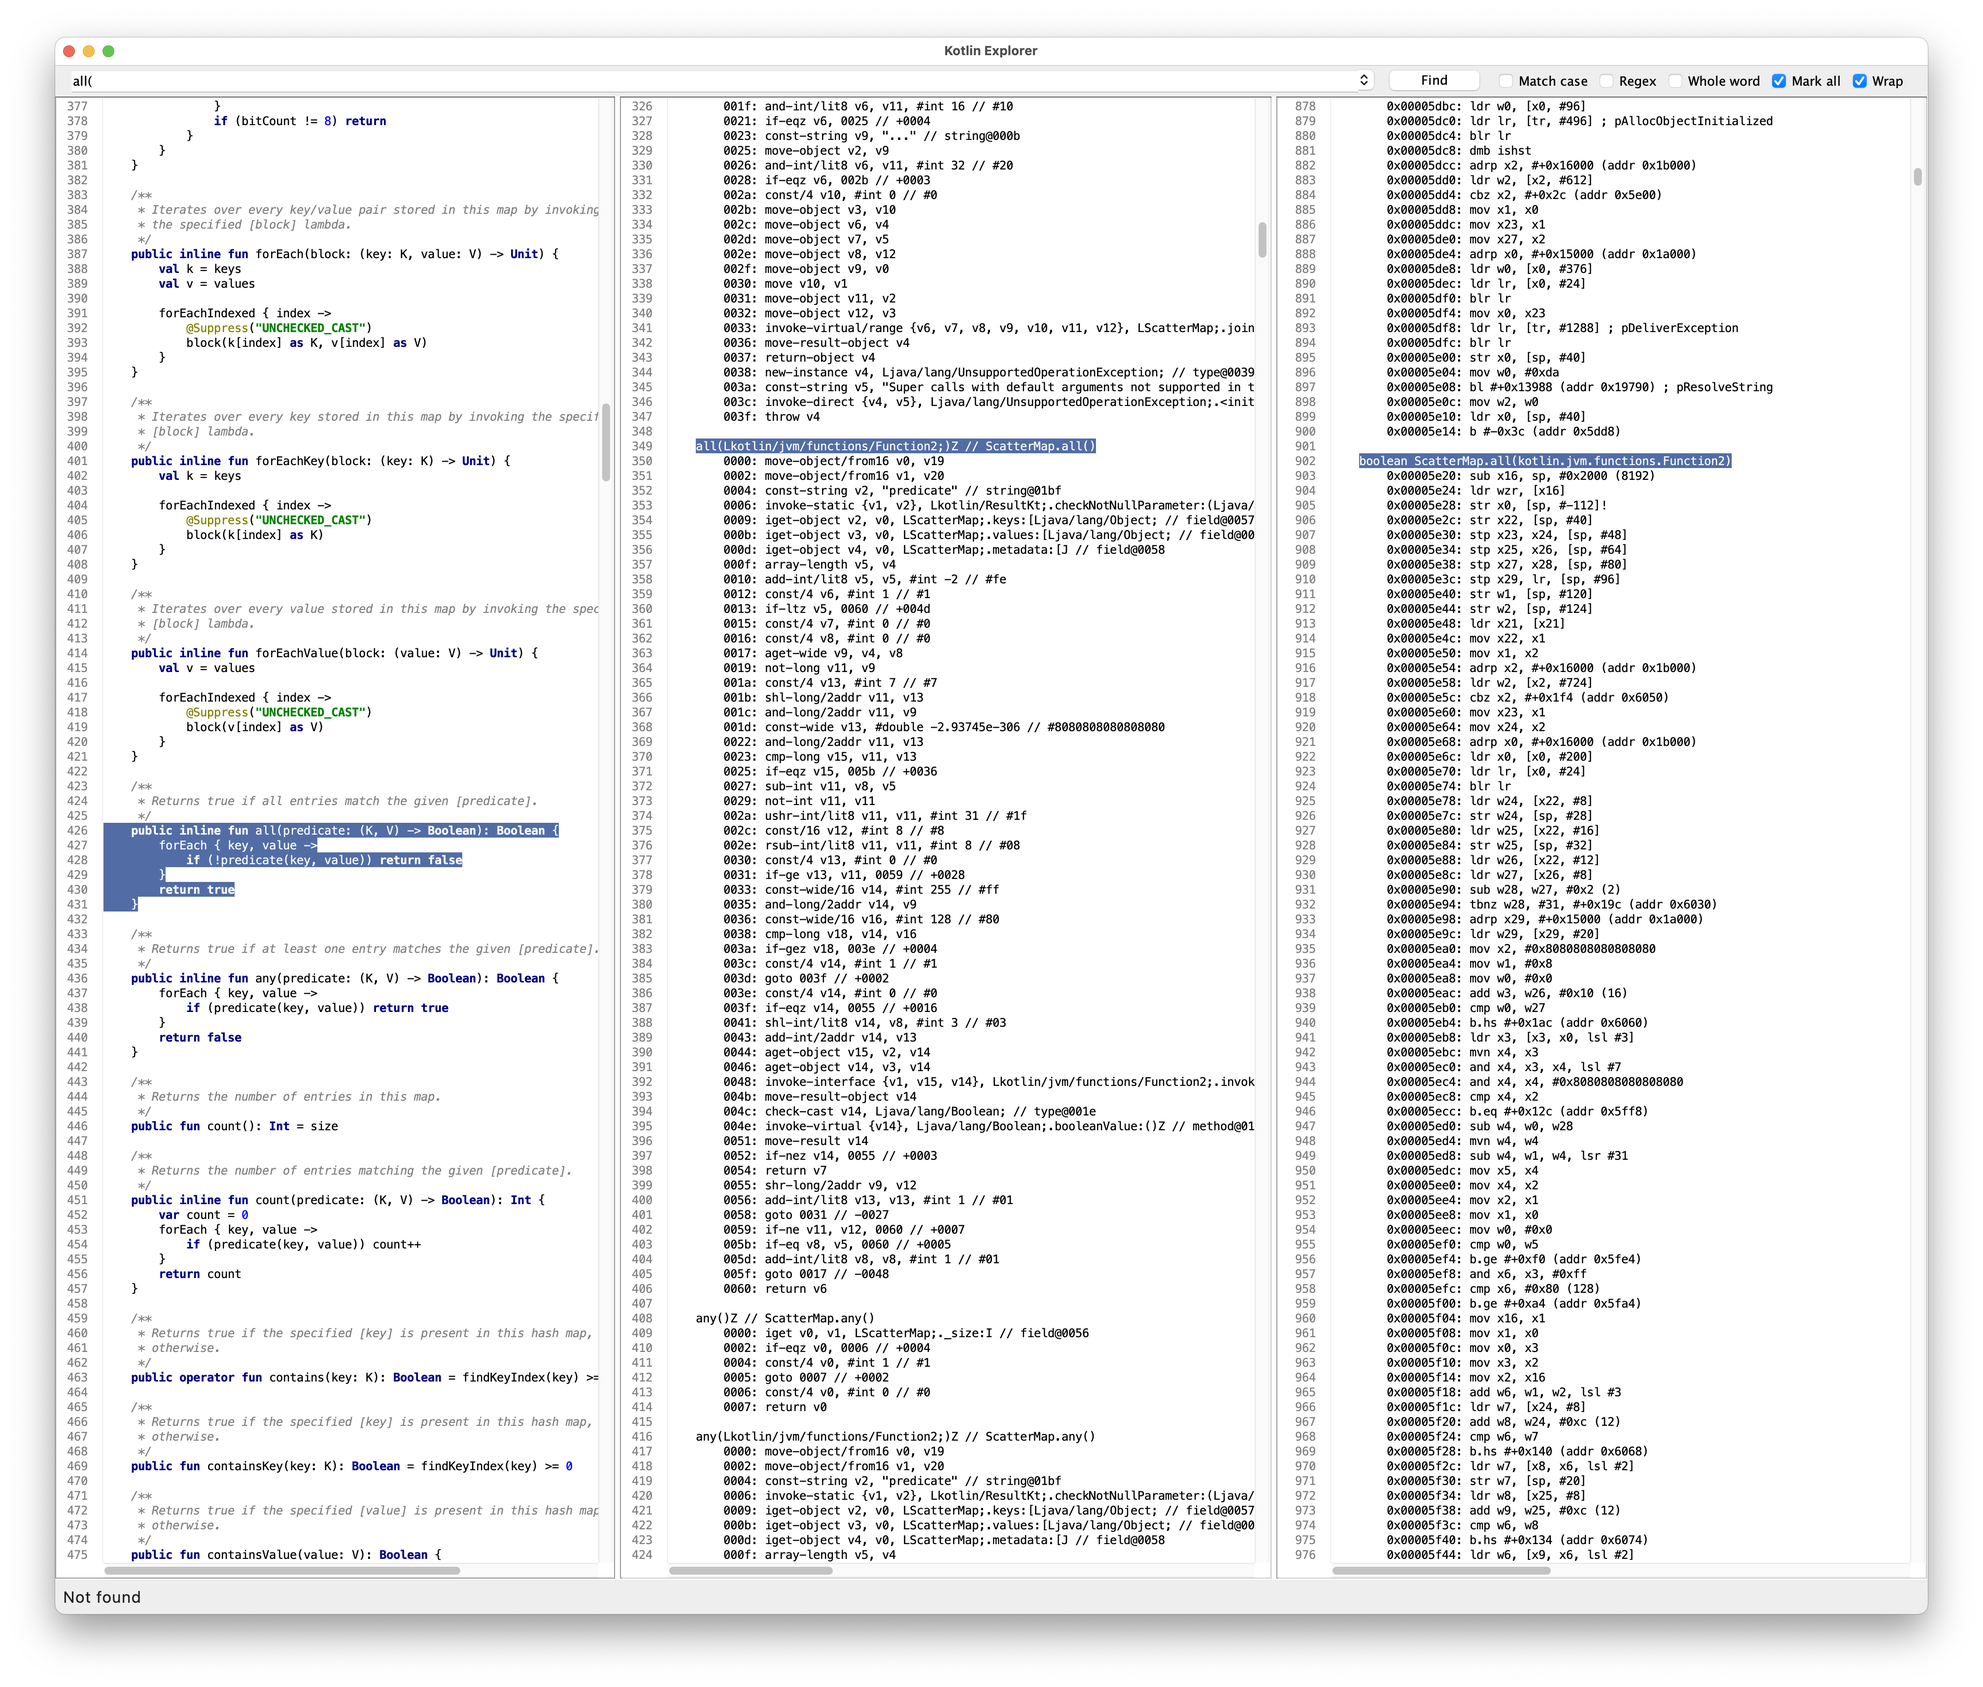
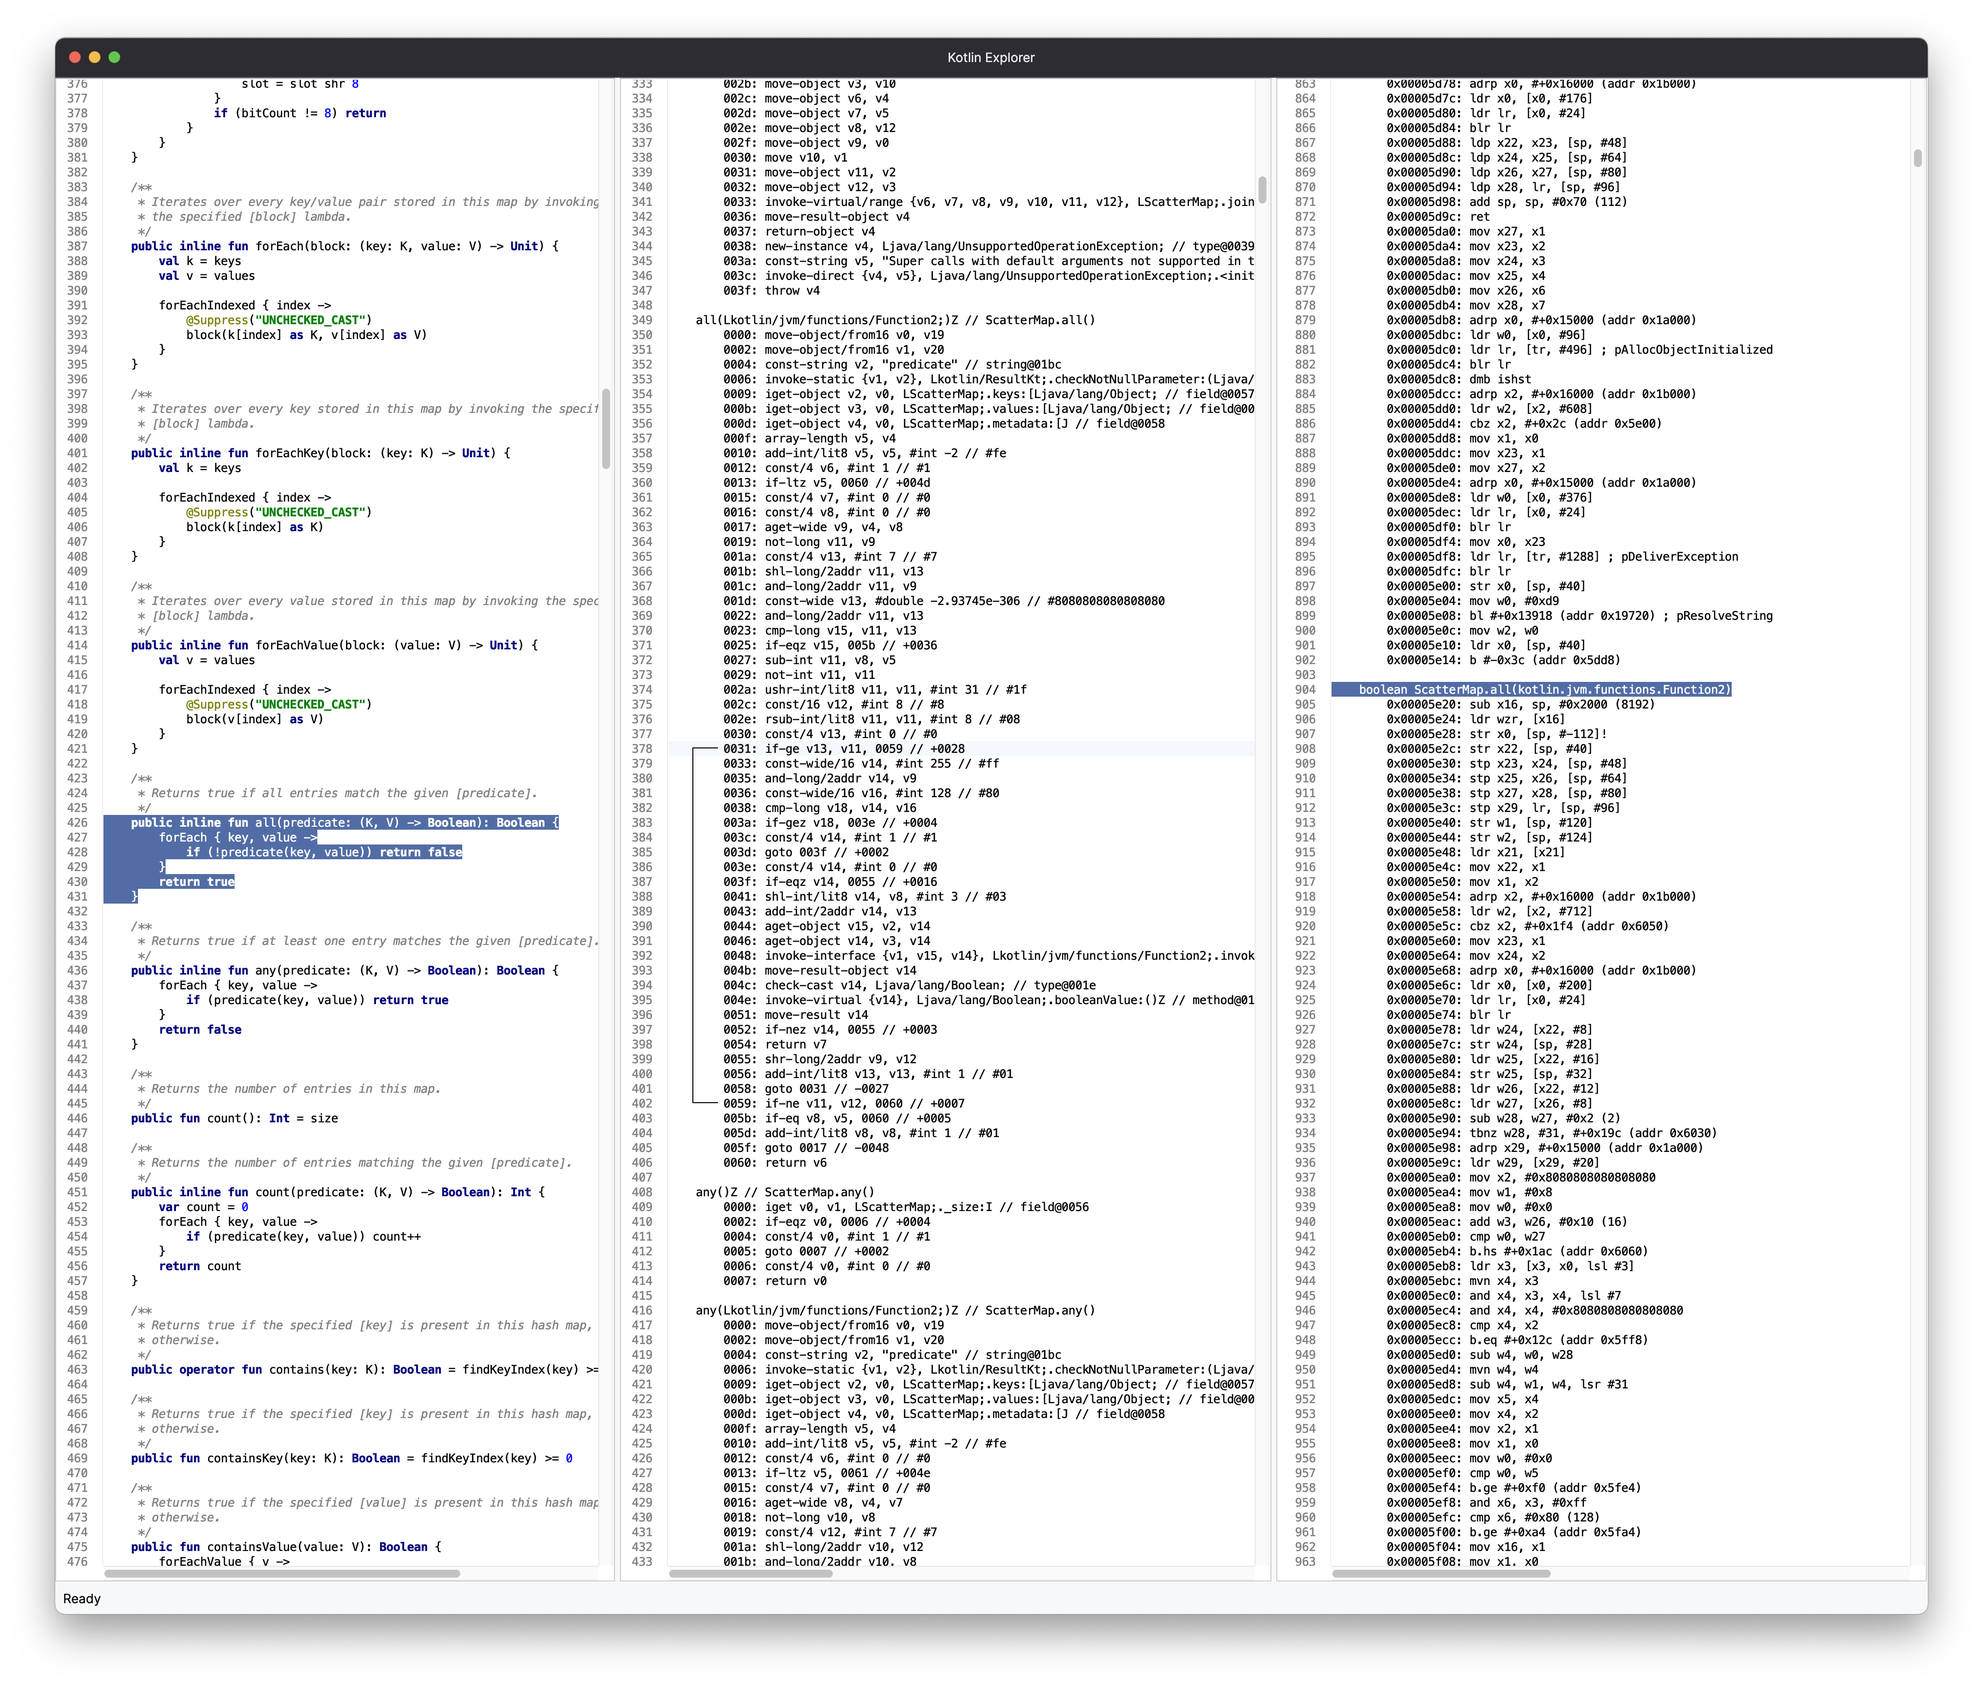
Switch to Jewel theme

Changed region(s): [[0.0311, 0.0, 0.994, 0.9688]]

diff --git a/src/jvmMain/kotlin/dev/romainguy/kotlin/explorer/KotlinExplorer.kt b/src/jvmMain/kotlin/dev/romainguy/kotlin/explorer/KotlinExplorer.kt
@@ -19,10 +19,11 @@
 package dev.romainguy.kotlin.explorer
 
 import androidx.compose.desktop.ui.tooling.preview.Preview
-import androidx.compose.foundation.layout.*
-import androidx.compose.material.Checkbox
-import androidx.compose.material.MaterialTheme
-import androidx.compose.material.Text
+import androidx.compose.foundation.background
+import androidx.compose.foundation.layout.Column
+import androidx.compose.foundation.layout.Row
+import androidx.compose.foundation.layout.fillMaxSize
+import androidx.compose.foundation.layout.padding
 import androidx.compose.runtime.*
 import androidx.compose.ui.Alignment
 import androidx.compose.ui.Modifier
@@ -33,7 +34,6 @@ import androidx.compose.ui.unit.dp
 import androidx.compose.ui.window.*
 import kotlinx.coroutines.launch
 import org.fife.rsta.ui.search.FindDialog
-import org.fife.rsta.ui.search.FindToolBar
 import org.fife.rsta.ui.search.SearchEvent
 import org.fife.rsta.ui.search.SearchListener
 import org.fife.ui.rsyntaxtextarea.RSyntaxTextArea
@@ -44,6 +44,19 @@ import org.fife.ui.rtextarea.SearchEngine
 import org.jetbrains.compose.splitpane.ExperimentalSplitPaneApi
 import org.jetbrains.compose.splitpane.HorizontalSplitPane
 import org.jetbrains.compose.splitpane.rememberSplitPaneState
+import org.jetbrains.jewel.foundation.theme.JewelTheme
+import org.jetbrains.jewel.intui.standalone.theme.IntUiTheme
+import org.jetbrains.jewel.intui.standalone.theme.darkThemeDefinition
+import org.jetbrains.jewel.intui.standalone.theme.lightThemeDefinition
+import org.jetbrains.jewel.intui.window.decoratedWindow
+import org.jetbrains.jewel.intui.window.styling.dark
+import org.jetbrains.jewel.intui.window.styling.light
+import org.jetbrains.jewel.ui.ComponentStyling
+import org.jetbrains.jewel.ui.component.Text
+import org.jetbrains.jewel.window.DecoratedWindow
+import org.jetbrains.jewel.window.TitleBar
+import org.jetbrains.jewel.window.newFullscreenControls
+import org.jetbrains.jewel.window.styling.TitleBarStyle
 import java.awt.Color
 import java.awt.event.FocusEvent
 import java.awt.event.FocusListener
@@ -127,100 +140,88 @@ fun FrameWindowScope.KotlinExplorer(
         { findDialog.isVisible = true }
     )
 
-    MaterialTheme {
-        Column {
-            Row {
+    Column(
+        modifier = Modifier.background(JewelTheme.globalColors.paneBackground)
+    ) {
+        HorizontalSplitPane(
+            modifier = Modifier.weight(1.0f),
+            splitPaneState = rememberSplitPaneState(initialPositionPercentage = 0.3f)
+        ) {
+            first {
                 SwingPanel(
-                    modifier = Modifier.weight(1.0f, true).height(32.dp),
+                    modifier = Modifier.fillMaxSize(),
                     factory = {
-                        FindToolBar(searchListener).apply {
-                            searchContext = findDialog.searchContext.apply {
-                                searchWrap = true
-                            }
+                        sourceTextArea = RSyntaxTextArea().apply {
+                            configureSyntaxTextArea(SyntaxConstants.SYNTAX_STYLE_KOTLIN)
+                            addFocusListener(focusTracker)
+                            SwingUtilities.invokeLater { requestFocusInWindow() }
+                            document.addDocumentListener(object : DocumentListener {
+                                override fun insertUpdate(e: DocumentEvent?) {
+                                    explorerState.sourceCode = text
+                                }
+
+                                override fun removeUpdate(e: DocumentEvent?) {
+                                    explorerState.sourceCode = text
+                                }
+
+                                override fun changedUpdate(e: DocumentEvent?) {
+                                    explorerState.sourceCode = text
+                                }
+                            })
                         }
+                        RTextScrollPane(sourceTextArea)
+                    },
+                    update = {
+                        sourceTextArea?.text = explorerState.sourceCode
                     }
                 )
             }
-            HorizontalSplitPane(
-                modifier = Modifier.weight(1.0f),
-                splitPaneState = rememberSplitPaneState(initialPositionPercentage = 0.3f)
-            ) {
-                first {
-                    SwingPanel(
-                        modifier = Modifier.fillMaxSize(),
-                        factory = {
-                            sourceTextArea = RSyntaxTextArea().apply {
-                                configureSyntaxTextArea(SyntaxConstants.SYNTAX_STYLE_KOTLIN)
-                                addFocusListener(focusTracker)
-                                SwingUtilities.invokeLater { requestFocusInWindow() }
-                                document.addDocumentListener(object : DocumentListener {
-                                    override fun insertUpdate(e: DocumentEvent?) {
-                                        explorerState.sourceCode = text
-                                    }
-
-                                    override fun removeUpdate(e: DocumentEvent?) {
-                                        explorerState.sourceCode = text
-                                    }
-
-                                    override fun changedUpdate(e: DocumentEvent?) {
-                                        explorerState.sourceCode = text
-                                    }
-                                })
+            second {
+                HorizontalSplitPane(
+                    modifier = Modifier.weight(1.0f),
+                    splitPaneState = rememberSplitPaneState(initialPositionPercentage = 0.5f)
+                ) {
+                    first {
+                        SwingPanel(
+                            modifier = Modifier.fillMaxSize(),
+                            factory = {
+                                dexTextArea = DexTextArea().apply {
+                                    configureSyntaxTextArea(SyntaxConstants.SYNTAX_STYLE_NONE)
+                                    addFocusListener(focusTracker)
+                                }
+                                RTextScrollPane(dexTextArea)
                             }
-                            RTextScrollPane(sourceTextArea)
-                        },
-                        update = {
-                            sourceTextArea?.text = explorerState.sourceCode
-                        }
-                    )
-                }
-                second {
-                    HorizontalSplitPane(
-                        modifier = Modifier.weight(1.0f),
-                        splitPaneState = rememberSplitPaneState(initialPositionPercentage = 0.5f)
-                    ) {
-                        first {
-                            SwingPanel(
-                                modifier = Modifier.fillMaxSize(),
-                                factory = {
-                                    dexTextArea = DexTextArea().apply {
-                                        configureSyntaxTextArea(SyntaxConstants.SYNTAX_STYLE_NONE)
-                                        addFocusListener(focusTracker)
-                                    }
-                                    RTextScrollPane(dexTextArea)
+                        )
+                    }
+                    second {
+                        SwingPanel(
+                            modifier = Modifier.fillMaxSize(),
+                            factory = {
+                                oatTextArea = RSyntaxTextArea().apply {
+                                    configureSyntaxTextArea(SyntaxConstants.SYNTAX_STYLE_NONE)
+                                    addFocusListener(focusTracker)
                                 }
-                            )
-                        }
-                        second {
-                            SwingPanel(
-                                modifier = Modifier.fillMaxSize(),
-                                factory = {
-                                    oatTextArea = RSyntaxTextArea().apply {
-                                        configureSyntaxTextArea(SyntaxConstants.SYNTAX_STYLE_NONE)
-                                        addFocusListener(focusTracker)
-                                    }
-                                    RTextScrollPane(oatTextArea)
-                                }
-                            )
-                        }
-                        splitter {
-                            HorizontalSplitter()
-                        }
+                                RTextScrollPane(oatTextArea)
+                            }
+                        )
+                    }
+                    splitter {
+                        HorizontalSplitter()
                     }
                 }
-                splitter {
-                    HorizontalSplitter()
-                }
             }
-            Row {
-                Text(
-                    modifier = Modifier
-                        .weight(1.0f, true)
-                        .align(Alignment.CenterVertically)
-                        .padding(8.dp),
-                    text = status
-                )
+            splitter {
+                HorizontalSplitter()
             }
+        }
+        Row {
+            Text(
+                modifier = Modifier
+                    .weight(1.0f, true)
+                    .align(Alignment.CenterVertically)
+                    .padding(8.dp),
+                text = status
+            )
         }
     }
 }
@@ -301,15 +302,35 @@ fun main() = application {
         Files.writeString(explorerState.toolPaths.sourceFile, explorerState.sourceCode)
     })
 
-    Window(
-        state = rememberWindowState(
-            position = WindowPosition.Aligned(Alignment.Center),
-            width = 1900.dp,
-            height = 1600.dp
-        ),
-        onCloseRequest = ::exitApplication,
-        title = "Kotlin Explorer"
+    val themeDefinition = if (KotlinExplorerTheme.System.isDark()) {
+        JewelTheme.darkThemeDefinition()
+    } else {
+        JewelTheme.lightThemeDefinition()
+    }
+    val titleBarStyle = if (KotlinExplorerTheme.System.isDark()) {
+        TitleBarStyle.dark()
+    } else {
+        TitleBarStyle.light()
+    }
+
+    IntUiTheme(
+        themeDefinition,
+        ComponentStyling.decoratedWindow(titleBarStyle = titleBarStyle),
+        false
     ) {
-        KotlinExplorer(explorerState)
+        DecoratedWindow(
+            state = rememberWindowState(
+                position = WindowPosition.Aligned(Alignment.Center),
+                width = 1900.dp,
+                height = 1600.dp
+            ),
+            onCloseRequest = ::exitApplication,
+            title = "Kotlin Explorer"
+        ) {
+            TitleBar(Modifier.newFullscreenControls()) {
+                Text("Kotlin Explorer")
+            }
+            KotlinExplorer(explorerState)
+        }
     }
 }

diff --git a/src/jvmMain/kotlin/dev/romainguy/kotlin/explorer/Splitter.kt b/src/jvmMain/kotlin/dev/romainguy/kotlin/explorer/Splitter.kt
@@ -18,9 +18,7 @@
 
 package dev.romainguy.kotlin.explorer
 
-import androidx.compose.foundation.background
 import androidx.compose.foundation.layout.*
-import androidx.compose.material.MaterialTheme
 import androidx.compose.ui.Modifier
 import androidx.compose.ui.input.pointer.PointerIcon
 import androidx.compose.ui.input.pointer.pointerHoverIcon
@@ -31,29 +29,6 @@ import java.awt.Cursor
 
 private fun Modifier.cursorForHorizontalResize(): Modifier =
     pointerHoverIcon(PointerIcon(Cursor(Cursor.E_RESIZE_CURSOR)))
-private fun Modifier.cursorForVerticalResize(): Modifier =
-    pointerHoverIcon(PointerIcon(Cursor(Cursor.N_RESIZE_CURSOR)))
-
-fun SplitterScope.VerticalSplitter() {
-    visiblePart {
-        Box(
-            Modifier
-                .height(5.dp)
-                .fillMaxWidth()
-                .background(MaterialTheme.colors.background)
-        )
-    }
-    handle {
-        Box(
-            Modifier
-                .markAsHandle()
-                .cursorForVerticalResize()
-                .background(MaterialTheme.colors.background)
-                .height(5.dp)
-                .fillMaxWidth()
-        )
-    }
-}
 
 fun SplitterScope.HorizontalSplitter() {
     visiblePart {
@@ -61,7 +36,6 @@ fun SplitterScope.HorizontalSplitter() {
             Modifier
                 .width(5.dp)
                 .fillMaxHeight()
-                .background(MaterialTheme.colors.background)
         )
     }
     handle {
@@ -69,7 +43,6 @@ fun SplitterScope.HorizontalSplitter() {
             Modifier
                 .markAsHandle()
                 .cursorForHorizontalResize()
-                .background(MaterialTheme.colors.background)
                 .width(5.dp)
                 .fillMaxHeight()
         )

diff --git a/src/jvmMain/kotlin/dev/romainguy/kotlin/explorer/Theme.kt b/src/jvmMain/kotlin/dev/romainguy/kotlin/explorer/Theme.kt
@@ -1,0 +1,30 @@
+/*
+ * Copyright (C) 2023 Romain Guy
+ *
+ * Licensed under the Apache License, Version 2.0 (the "License");
+ * you may not use this file except in compliance with the License.
+ * You may obtain a copy of the License at
+ *
+ *       http://www.apache.org/licenses/LICENSE-2.0
+ *
+ * Unless required by applicable law or agreed to in writing, software
+ * distributed under the License is distributed on an "AS IS" BASIS,
+ * WITHOUT WARRANTIES OR CONDITIONS OF ANY KIND, either express or implied.
+ * See the License for the specific language governing permissions and
+ * limitations under the License.
+ */
+
+package dev.romainguy.kotlin.explorer
+
+import org.jetbrains.skiko.SystemTheme
+
+enum class KotlinExplorerTheme {
+    Dark, Light, System;
+
+    // TODO: Using currentSystemTheme leads to an UnsatisfiedLinkError with the JetBrains Runtime
+    fun isDark() = (if (this == System) fromSystemTheme(/* currentSystemTheme */ SystemTheme.LIGHT) else this) == Dark
+
+    companion object {
+        fun fromSystemTheme(systemTheme: SystemTheme) = if (systemTheme == SystemTheme.LIGHT) Light else Dark
+    }
+}
